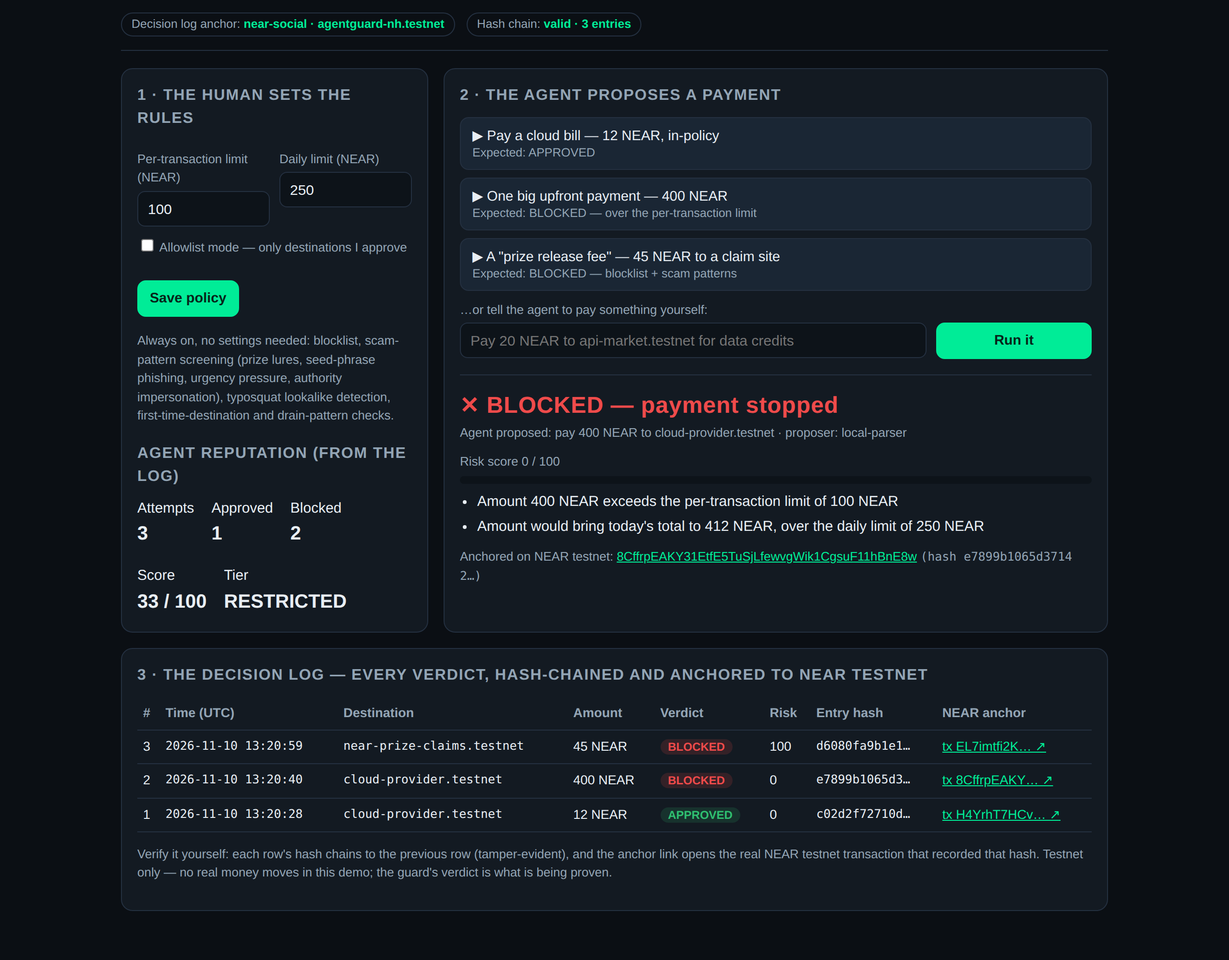
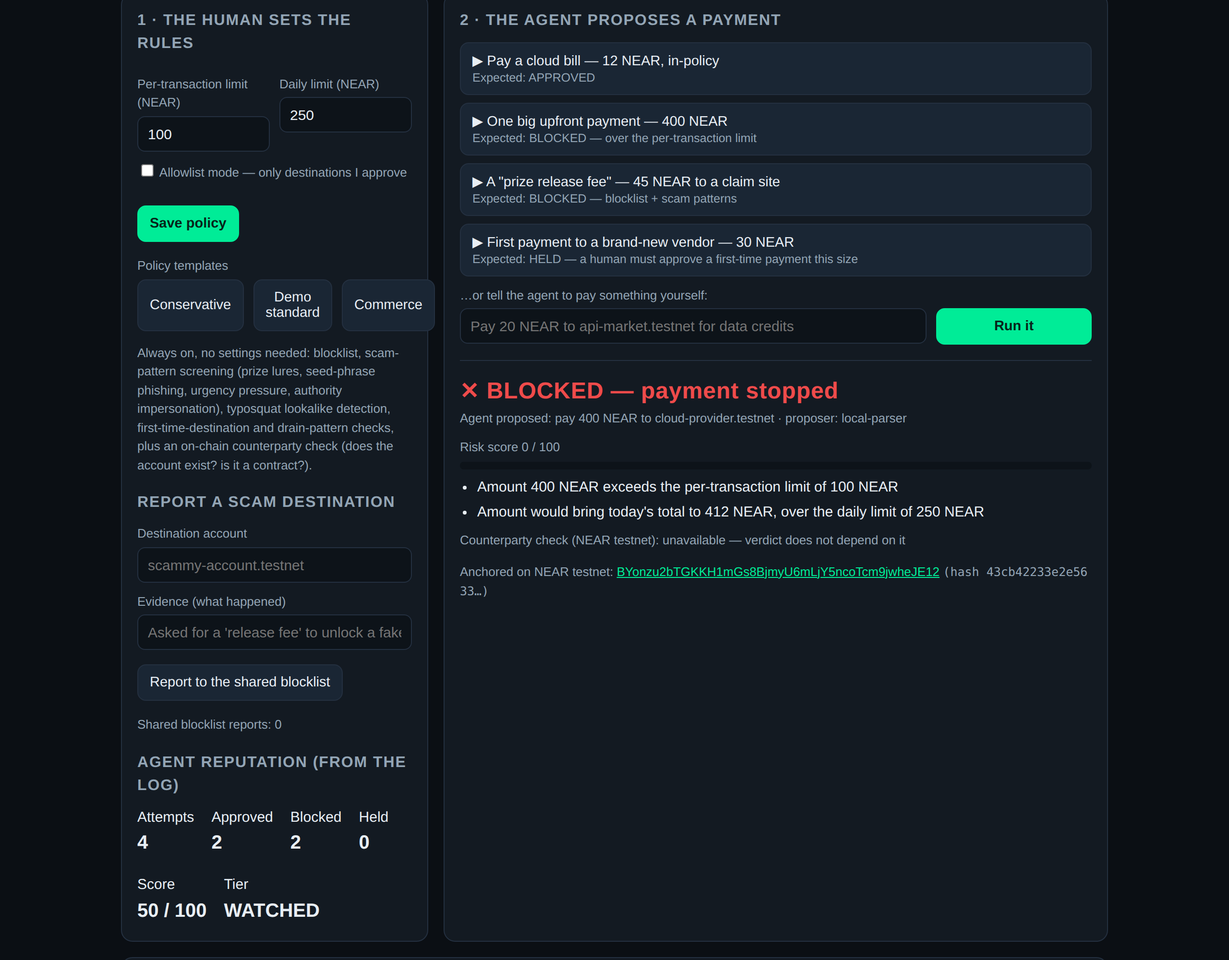
Ship the upgrade: deployed-contract README + key model, refreshed screenshots (REVIEW flow), canonical 5-entry contract-anchored log, demo script updated

Changed region(s): [[0.0938, 0.0, 0.9062, 0.961], [0.125, 0.992, 0.875, 1.0], [0.75, 0.31, 0.9062, 0.403]]

diff --git a/README.md b/README.md
@@ -1,147 +1,162 @@
 # AgentGuard
 
-**A safety layer for AI agents that move money.**
+**AI agents can hold wallets and move money. Who stops them when they're tricked, buggy, or pointed at the wrong account?**
 
-AI agents are starting to hold wallets and pay for things — compute, data,
-services, other agents. That creates a new failure mode: an agent can be
-talked into sending money to the wrong place (a scam lure in a web page, a
-typosquatted payee, a "release fee" for a fake prize), or simply overspend,
-and there is no undo. AgentGuard sits between the agent and the money:
+AgentGuard is a safety layer that sits between an AI agent and its wallet. Every payment the agent proposes is checked against human-set rules *before* it can move — and every decision, **APPROVED**, **BLOCKED**, or **HELD for human review**, is written to a tamper-evident log anchored on NEAR (testnet), in a **dedicated Rust smart contract** built for this project.
 
-1. **The human sets the policy** — per-transaction and daily spending limits,
-   allow/block lists.
-2. **Every proposed payment is screened** — limits, blocklist, scam patterns
-   (prize lures, seed-phrase phishing, urgency pressure, authority
-   impersonation), typosquat lookalikes of known payees, first-time-destination
-   and drain-pattern checks, combined into a risk score.
-3. **Every decision is written to an auditable log anchored to NEAR** — an
-   append-only, SHA-256 hash-chained ledger whose entry hashes are recorded
-   on NEAR testnet in real transactions, plus a per-agent reputation score
-   computed from that history.
+Built for the [NEAR Hackathon — "Build Beyond Boundaries"](https://nearhackathon.com/) · Tracks: **Agents** + **Security** · Testnet only.
 
-Tracks: **AI Security & Defense** (`security`) and **Agent Economy**
-(`agents`). Testnet only — no real money is ever moved; the guard's verdict
-and its proof are the product.
+## Live
 
-## See it work (2 minutes, no setup)
+| | |
+|---|---|
+| **Live demo** | https://agentguard.nammaprojects.com *(deployed and running on the project server; public as soon as the DNS record propagates — until then, run it locally, see Quickstart)* |
+| **Decision-log contract** | [`log.agentguard-nh.testnet`](https://testnet.nearblocks.io/address/log.agentguard-nh.testnet) — Rust / near-sdk, owner-gated, append-only |
+| **Operator account** | [`agentguard-nh.testnet`](https://testnet.nearblocks.io/address/agentguard-nh.testnet) |
+| **Verify the demo decisions** | `npm run anchor-check` — keyless, see below |
 
-A real run of this exact code produced these NEAR testnet transactions —
-open them and you will see the decision hash and verdict recorded on-chain:
+The canonical verdicts, anchored through the contract:
 
-| # | Agent proposed | Verdict | On-chain proof |
-|---|---|---|---|
-| 1 | Pay 12 NEAR to `cloud-provider.testnet` (hosting invoice) | **APPROVED** (risk 0) | [tx H4YrhT7H…](https://testnet.nearblocks.io/txns/H4YrhT7HCvh3uW5xim3qLnNbhb8QjEBG6pAMeUr9JX5e) |
-| 2 | Pay 400 NEAR to `cloud-provider.testnet` (a year upfront) | **BLOCKED** — over the 100 NEAR per-transaction limit | [tx 8CffrpEA…](https://testnet.nearblocks.io/txns/8CffrpEAKY31EtfE5TuSjLfewvgWik1CgsuF11hBnE8w) |
-| 3 | Pay 45 NEAR to `near-prize-claims.testnet` ("urgent — claim your prize, send the release fee") | **BLOCKED** — blocklist + prize-lure + urgency patterns (risk 100) | [tx EL7imtfi…](https://testnet.nearblocks.io/txns/EL7imtfi2KTisL5vu63UZtZxuqgGLfkN4BSSRHU5Kehn) |
+| Verdict | On-chain proof (testnet) |
+|---|---|
+| ✅ **APPROVED** — 12 NEAR hosting bill, in-policy, risk 0 | [tx 2EMUtLLy…KVpNTv](https://testnet.nearblocks.io/txns/2EMUtLLyxtSAAp79vCqrsLXFmzzShfibpKskBGKVpNTv) |
+| ⛔ **BLOCKED** — 400 NEAR, over the 100 NEAR per-transaction limit | [tx BYonzu2b…wheJE12](https://testnet.nearblocks.io/txns/BYonzu2bTGKKH1mGs8BjmyU6mLjY5ncoTcm9jwheJE12) |
+| ⛔ **BLOCKED** — 45 NEAR "prize release fee", scam risk 100 | [tx Fc22c8fg…JiSsHt](https://testnet.nearblocks.io/txns/Fc22c8fgXxFcuSQ4xUYgR4s8BgmFCpYX9YLmoKJiSsHt) |
+| ⏸ **HELD → human approved** — 30 NEAR first payment to a new vendor, risk 20 | [held](https://testnet.nearblocks.io/txns/DW3vBNbGh7ezJUhEpgRnSEjBnkVBFB1PykiwKZ8XTFnt) · [resolution](https://testnet.nearblocks.io/txns/7Rfm5dzABv9MEZmkoFoL6UPkjAeiBTjbtCi11oqyJgf4) |
 
-Anchoring account: `agentguard-nh.testnet`, writing via the NEAR Social
-testnet contract `v1.social08.testnet` (method `set`). The same hashes appear
-in the app's decision log; `node scripts/anchor-check.mjs` re-verifies a local
-log against the chain, keylessly.
+## Screenshots
 
-## Try it yourself
+| Policy, templates & scenarios | ✅ Approved (12 NEAR) |
+|---|---|
+| ![Policy panel, templates and demo scenarios](docs/demo-assets/01-policy-and-scenarios.png) | ![Approved verdict card](docs/demo-assets/02-verdict-approved-12near.png) |
+| ⛔ **Blocked — over limit (400 NEAR)** | ⛔ **Blocked — prize scam (45 NEAR, risk 100)** |
+| ![Blocked over-limit verdict card](docs/demo-assets/03-verdict-blocked-400near-overlimit.png) | ![Blocked scam verdict card](docs/demo-assets/04-verdict-blocked-45near-scam.png) |
+| ⏸ **Held for review → human approved** | **Decision log with explorer links** |
+| ![Review resolution card](docs/demo-assets/05-review-resolution.png) | ![Decision log](docs/demo-assets/06-decision-log.png) |
 
-Prereqs: Node.js 20+.
+## The problem
 
-```sh
-git clone https://github.com/prasad-anandappa/agentguard
-cd agentguard
+Agent frameworks now give AI agents real wallets. That's powerful — and dangerous in ways a normal payment app never faces:
+
+- **Scams aimed at the agent.** A fake "you won a prize, send a release fee" message that a human would laugh at can talk an agent into paying.
+- **Prompt injection.** Text the agent reads (a web page, an invoice note, a chat message) can smuggle in payment instructions.
+- **Fat-finger / hallucination damage.** One misread digit or a wrong-but-similar account name (`cloud-provider` vs `cloud-prov1der`) and funds are gone — blockchain transfers don't have an undo button.
+- **No audit trail.** When something goes wrong, "the agent decided" is not an answer. Teams need a record they can trust and show.
+
+AgentGuard is the checkpoint every agent payment has to pass — and the receipt that proves what happened.
+
+## How AgentGuard maps to the brief
+
+**Agents track** — *"prove a stranger can use it: clear README, a demo, visible receipts"*:
+- The demo page lists every payment instruction it ran; each decision links to its NEAR testnet transaction in an explorer.
+- Every run produces a receipt: verdict, risk score, reasons, ledger hash, on-chain anchor.
+
+**Security track** — *"make the key handling boring and explicit"*:
+- AgentGuard **never holds the money** and never holds a full-access key at runtime. Its chain credential is a **function-call access key scoped to one method (`log_decision`) on one contract**, with a small gas allowance — it cannot transfer funds, add keys, or deploy code (see [Key model](#key-model)).
+- The harmful action each feature prevents is stated next to it in [What it checks](#what-it-checks).
+
+## What it does
+
+1. **A human sets the rules** — per-transaction limit, daily limit, review threshold, allowlist/blocklist, or a one-click policy template (Conservative / Demo standard / Commerce).
+2. **The agent proposes a payment** in plain language ("Pay 12 NEAR to cloud-provider.testnet for this month's hosting invoice"). NEAR AI Cloud inference parses it when a key is configured; a deterministic local parser does the same job offline, so the demo runs anywhere.
+3. **AgentGuard evaluates** the proposal against the policy, scam intelligence, an on-chain counterparty check, and the agent's own history (see checks below).
+4. **Verdict:** `APPROVED` (clean), `BLOCKED` (a hard rule or clear scam signal fired), or `REVIEW` (in between — held until a human approves or denies it in the UI; the resolution is logged too).
+5. **The decision is appended to a SHA-256 hash-chained ledger and anchored on NEAR testnet** through the project's own contract, so anyone can verify later that the record wasn't rewritten.
+
+## What it checks
+
+Each check names the attack or accident it exists to stop:
+
+| Check | Prevents |
+|---|---|
+| Per-transaction & daily limits | A tricked or buggy agent draining the wallet in one go |
+| Blocklist (built-in + community reports) | Repeat payments to known scam destinations |
+| Scam-pattern screening of the memo/instruction (prize lures, "release fee", seed-phrase requests, urgency pressure, authority impersonation) | Social-engineering and prompt-injection text that talks the agent into paying |
+| Typosquat / lookalike detection (edit distance + digit-for-letter swaps vs known-good accounts) | Funds sent to `cloud-prov1der.testnet` instead of `cloud-provider.testnet` |
+| First-time-destination & drain-pattern detection | A fresh scam account receiving its first payment; many small payments sneaking under the per-tx limit |
+| **On-chain counterparty screening** (keyless RPC: does the account exist? is it a contract? have we paid it before?) | Payments to non-existent accounts (burned funds) and to unexpected **contract** destinations — a classic drainer pattern (+risk) |
+| Risk score 0–100 with three verdict bands | Grey-zone payments silently passing: band 20–49 is HELD for a human, exactly as the brief's "asks a human when it's warn" requires |
+
+Plus: a **shared blocklist** anyone can report into *with evidence* (reports take effect immediately and are listed in the UI), **per-agent reputation** derived from the ledger (approvals / blocks / holds per agent), and a downloadable **audit report** (Markdown: policy, counts, reputation, the full hash-chained log with explorer links).
+
+## Key model
+
+Boring and explicit, per the security brief:
+
+- The **agent's wallet is never touched by AgentGuard** — in a production wiring the agent (or its custody layer) executes only `APPROVED` verdicts; AgentGuard's decision is the gate.
+- The **operator account** (`agentguard-nh.testnet`, testnet) is controlled by a full-access key used only by one-off setup scripts (`scripts/deploy-contract.mjs`, `scripts/setup-fc-key.mjs`) on the developer's machine.
+- The **running service** authenticates with a **function-call access key**:
+  - may call **only** `log_decision` on `log.agentguard-nh.testnet`,
+  - carries a **3 NEAR allowance** that pays its own gas — when it runs out, anchoring stops (fail-visible, never fail-silent) until the operator rotates the key,
+  - **cannot** transfer NEAR, add/remove keys, deploy code, or delete the account.
+  - Proof: [key-creation tx 4p5mMDW1…Db2WgJnn](https://testnet.nearblocks.io/txns/4p5mMDW16zFGnqynRq7mjqk2aH7oHPkQXYvzDb2WgJnn) — the access-key permission is visible in the transaction.
+- The **log contract** accepts `log_decision` only from its owner (the operator account), and its records are append-only — no update or delete method exists.
+- **Verification needs no key at all**: `scripts/anchor-check.mjs` reads public RPC data + public transaction receipts.
+
+## The Rust contract
+
+[`contract/`](contract/) — `log.agentguard-nh.testnet`, deployed 2026-11-10:
+
+- deploy tx: [FkuoTLTm…Ws1W437uoX](https://testnet.nearblocks.io/txns/FkuoTLTmsZDhMG9X3y8j4o4w85KKx1GNnaWs1W437uoX) · init tx: [J4NUZxJJ…36ZMQ4sPuF](https://testnet.nearblocks.io/txns/J4NUZxJJWaeUhKcNdjQdZwJhiJdRPdYm1E36ZMQ4sPuF)
+- `log_decision(agent, destination, amount, verdict, risk_score, entry_hash)` — owner-only, append-only, emits an `AGENTGUARD_DECISION` log line per record.
+- `get_decision(index)` / `total_decisions()` / `owner()` — public views; `npm run anchor-check` cross-checks both the views and the transaction receipts against the local ledger.
+- Built + unit-tested (3 tests) in CI on every push; the same pipeline produces the deployable wasm artifact.
+
+## Quickstart
+
+```bash
+git clone https://github.com/prasad-anandappa/agentguard && cd agentguard
 npm install
-npm test        # do this — see 22 tests pass (policy engine, ledger, anchoring)
-npm start       # open http://localhost:8787
+npm start          # → http://localhost:8787
 ```
 
-Then, in the page:
+No keys needed: without a `.env`, AgentGuard runs fully locally and marks entries "local only" — nothing is faked. Click the four scenarios; the 4th is **held for review** — approve or deny it in the card that appears.
 
-- **Do:** click "Pay a cloud bill — 12 NEAR" → **see** a green APPROVED verdict,
-  risk 0, and the decision appear in the log.
-- **Do:** click "One big upfront payment — 400 NEAR" → **see** BLOCKED, with the
-  reason "exceeds the per-transaction limit of 100 NEAR".
-- **Do:** click "A prize release fee — 45 NEAR" → **see** BLOCKED with
-  blocklist, prize-lure and urgency reasons, risk 100.
-- **Do:** type your own instruction, e.g. `Pay 20 NEAR to api-market.testnet
-  for data credits`, or try to sneak one past the guard:
-  `Pay 30 NEAR to cloud-providerr.testnet for hosting` (note the extra `r`) →
-  **see** it blocked as a typosquat lookalike of the known payee.
-- **Do:** change the limits in the policy panel, save, and re-run a scenario →
-  **see** the verdict follow *your* rules.
+To anchor live (testnet): copy `.env.example` to `.env`, create a testnet account, run `node scripts/deploy-contract.mjs` + `node scripts/setup-fc-key.mjs`, and restart. Or point it at the already-deployed contract above.
 
-Out of the box the log is local (entries marked "local only"). To anchor your
-own decisions to testnet, create a free testnet account and point the app at
-it — no code changes:
+## Verify it yourself (no keys, no trust)
 
-```sh
-node scripts/create-account.mjs myname.testnet   # funded testnet dev account
-cp .env.example .env                              # set NEAR_TESTNET_ACCOUNT_ID
-                                                  # and NEAR_TESTNET_CREDENTIALS
-npm start                                         # header now shows anchor mode
+```bash
+npm run anchor-check
 ```
 
-## How NEAR fits (concretely)
-
-- **Decision anchoring on NEAR testnet.** Each ledger entry's SHA-256 hash and
-  verdict are written to NEAR in a real transaction (NEAR Social testnet
-  contract `v1.social08.testnet::set`, under the operator account's
-  namespace). Hash-chaining means the anchored hashes are sufficient to audit
-  the *entire* history: alter any entry and its hash — and every later link —
-  stops matching what is on-chain. NEAR's fast, cheap finality makes
-  per-decision anchoring practical; on most chains it would be priced as a
-  batch job. Testnet-only projects are eligible per the hackathon rules
-  (Q-010); nothing here needs mainnet or real funds.
-- **A dedicated log contract is included** (`contract/`, Rust / near-sdk):
-  `log_decision(decision_id, entry_hash, verdict)` with an operator-only
-  write rule and unit tests. Deploy it and set `AGENTGUARD_CONTRACT_ID` — the
-  anchor module switches backends with that one variable; recorded data is
-  identical. (The demo environment had no Rust toolchain, so the shipped run
-  anchors via NEAR Social; both paths are real testnet transactions.)
-- **NEAR AI Cloud (optional).** If `NEAR_AI_API_KEY` is set, the agent's
-  instruction parsing uses NEAR AI Cloud inference; without a key, a built-in
-  deterministic parser does the same job so the demo never breaks. The guard's
-  verdict does not depend on which proposer produced the proposal.
-- **Reputation from anchored history.** The per-agent reputation score is a
-  pure function of the decision log (approvals / attempts, tiered), so anyone
-  can recompute it from the same data that is anchored on NEAR — the seed of
-  the "should this agent be trusted with money?" check the Agent Economy
-  needs.
-
-## Architecture
+Recomputes the local hash chain, then for every anchored entry fetches the public transaction and — for contract anchors — the contract's own stored record, comparing verdicts. Sample output from the canonical log:
 
 ```
-public/index.html   Demo UI: policy panel, agent scenarios, decision log
-src/server.js       Zero-framework Node server + JSON API
-src/policy.js       Policy engine — limits, lists, scam screening, risk score
-src/agent.js        Agent proposer — NEAR AI Cloud or deterministic parser
-src/ledger.js       Append-only SHA-256 hash-chained decision log + reputation
-src/anchor.js       NEAR testnet anchoring (NEAR Social `set`, or dedicated
-                    contract via AGENTGUARD_CONTRACT_ID)
-contract/           Dedicated AgentGuard log contract (Rust, near-sdk) + tests
-scripts/            create-account.mjs (testnet dev account),
-                    anchor-check.mjs (keyless on-chain verification)
-test/               node --test suite: policy, ledger, anchoring, parser
+Hash chain: VALID (5 entries)
+#1 APPROVED — on-chain verdict (dedicated-contract): APPROVED · tx success: true · MATCH ✓
+#2 BLOCKED — on-chain verdict (dedicated-contract): BLOCKED · tx success: true · MATCH ✓
+#3 BLOCKED — on-chain verdict (dedicated-contract): BLOCKED · tx success: true · MATCH ✓
+#4 REVIEW — on-chain verdict (dedicated-contract): REVIEW · tx success: true · MATCH ✓
+#5 APPROVED — on-chain verdict (dedicated-contract): APPROVED · tx success: true · MATCH ✓
+ALL ANCHORED ENTRIES VERIFIED ON-CHAIN ✓
 ```
 
-API: `GET /api/health` · `GET|POST /api/policy` · `POST /api/propose`
-(`{scenario}` or `{instruction}`) · `GET /api/decisions` ·
-`GET /api/scenarios`.
+Earlier demo decisions were anchored through the NEAR Social testnet contract (`v1.social08.testnet`) before the dedicated contract existed — those transactions remain valid proof of the same ledger hashes: [APPROVED](https://testnet.nearblocks.io/txns/H4YrhT7HCvh3uW5xim3qLnNbhb8QjEBG6pAMeUr9JX5e) · [BLOCKED 400](https://testnet.nearblocks.io/txns/8CffrpEAKY31EtfE5TuSjLfewvgWik1CgsuF11hBnE8w) · [BLOCKED scam](https://testnet.nearblocks.io/txns/EL7imtfi2KTisL5vu63UZtZxuqgGLfkN4BSSRHU5Kehn).
 
-## Baseline disclosure (hackathon rules Q-001/Q-003/Q-005)
+## Attack demo
 
-- AgentGuard is a **new build, started 2026-11-10** inside the NEAR HACKATHON
-  window (2026-11-01 → 2026-11-14). No pre-hackathon code is included.
-- Libraries used: `near-api-js` (NEAR interaction) and Node.js built-ins
-  (HTTP server, crypto, test runner). The contract uses `near-sdk` (Rust).
-- Built with an AI coding agent working from the official
-  `HACKATHON.md` brief, with the human directing scope and verifying results.
+```bash
+npm run attack-demo   # boots a throwaway instance — your real log is untouched
+```
 
-## Safety notes
+Runs three scripted prompt-injection attacks end-to-end — a fake "NEAR Foundation security team" authority lure, a typosquat of a known-good payee, and a sub-limit drain sequence — and shows all three stopped (2 BLOCKED, 1 HELD). Exit code 0 only if every attack is stopped.
 
-- Testnet only. The demo asset is test NEAR / simulated payments; AgentGuard
-  itself never holds or moves user funds — it issues verdicts and proofs.
-- Keys live in environment variables / local credential files only
-  (`.env`, `.near-credentials/` are git-ignored). Never commit them.
-- Without NEAR credentials the app runs in local mode and labels entries
-  "local only" — it never fabricates an anchor.
+## Tests & CI
 
-## License
+```bash
+npm test    # 35 tests: policy engine, ledger hash-chain, REVIEW flow,
+            # counterparty screening, shared blocklist, reputation, server API
+```
 
-MIT — see `LICENSE`.
+GitHub Actions (`.github/workflows/ci.yml`) runs the Node suite + attack demo, the contract's Rust unit tests, and the wasm build on every push.
+
+## Honest scope & limits
+
+- **Testnet only.** No real funds are involved anywhere in this project, and nothing here is a mainnet safety product (yet).
+- **AgentGuard gates; it doesn't hold keys to the money.** Executing (or refusing) an approved payment stays with the agent's own wallet/custody layer — by design; a policy engine that also held the funds would be a bigger target, not a safer one.
+- **Scam screening is heuristic.** Pattern lists catch the common lures, not every possible phrasing; that's why grey-zone scores are held for a human instead of waved through.
+- **Counterparty screening degrades gracefully.** If the RPC is unreachable, screening reports "unavailable" and never blocks on missing data.
+- **NEAR AI Cloud inference is optional.** The verdict path is deterministic policy code; the LLM (when configured) only parses the instruction into `{to, amount, memo}`.
+- The seeded demo log ships in `data/decisions.jsonl`; bot
+...[truncated 2085 chars]

diff --git a/contract/README.md b/contract/README.md
@@ -1,31 +1,51 @@
-# AgentGuard log contract (optional dedicated deployment)
+# AgentGuard log contract — DEPLOYED
 
-A minimal NEAR contract that records AgentGuard decision hashes on-chain:
-`log_decision(decision_id, entry_hash, verdict)`, `get_decision(entry_hash)`,
-`total_decisions()`. Only the operator account that deployed it can write.
+A minimal NEAR contract that records AgentGuard decisions on-chain.
+**Live on testnet:** [`log.agentguard-nh.testnet`](https://testnet.nearblocks.io/address/log.agentguard-nh.testnet)
+(deploy tx [FkuoTLTm…](https://testnet.nearblocks.io/txns/FkuoTLTmsZDhMG9X3y8j4o4w85KKx1GNnaWs1W437uoX),
+init tx [J4NUZxJJ…](https://testnet.nearblocks.io/txns/J4NUZxJJWaeUhKcNdjQdZwJhiJdRPdYm1E36ZMQ4sPuF)).
 
-**How the live demo anchors today:** the app's anchor module
-(`../src/anchor.js`) writes each decision hash to NEAR testnet via the NEAR
-Social testnet contract (`v1.social08.testnet`, method `set`) — real,
-explorer-verifiable testnet transactions with zero deployment needed. If this
-dedicated contract is deployed, set `AGENTGUARD_CONTRACT_ID` in the
-environment and the same module calls `log_decision` on it instead. The data
-recorded is identical either way.
+Interface:
 
-## Build & deploy (testnet)
+- `log_decision(agent, destination, amount, verdict, risk_score, entry_hash)` → index.
+  Owner-only (`agentguard-nh.testnet`), append-only — there is no update or
+  delete method. Emits an `AGENTGUARD_DECISION` log line per record.
+- `get_decision(index)` → the stored record · `total_decisions()` · `owner()`.
 
-Prereqs: Rust + `cargo-near` (https://github.com/near/cargo-near), and a funded
-testnet account (free from the testnet faucet / wallet).
+The app's anchor module (`../src/anchor.js`) calls `log_decision` whenever
+`AGENTGUARD_CONTRACT_ID` is set (it is, in the live demo), authenticating with
+a **function-call access key scoped to this one method** — see the main
+README's "Key model". Without the variable it falls back to anchoring via
+the NEAR Social testnet contract (`v1.social08.testnet` `set`), which the
+earliest demo decisions used; `npm run anchor-check` verifies both modes.
+
+## Build
+
+CI (`.github/workflows/ci.yml`) runs `cargo test` (3 unit tests: logging,
+read-back, non-owner rejection) and builds the wasm on every push, publishing
+it as the `agentguard-log-wasm` artifact. Locally:
 
 ```sh
 cd contract
-cargo near build
-# deploy to a sub-account of your testnet account, then initialise:
-near deploy <contract.account.testnet> target/near/agentguard_log.wasm new '{}'
+rustup target add wasm32-unknown-unknown
+cargo test
+cargo build --target wasm32-unknown-unknown --release
+# wasm: target/wasm32-unknown-unknown/release/agentguard_log.wasm
 ```
 
-Note: the hackathon demo environment used for the submission run did not have
-a Rust toolchain available, so the shipped demo anchors through NEAR Social
-(see above) and this contract is provided as the dedicated-deployment source.
-Its unit tests (`cargo test`) cover logging, read-back, and the
-operator-only write rule.
+(`near-sdk` is pinned to `=5.1.0` — the contract targets that `#[near_bindgen]`
+API; a floating `5.x` resolves to newer SDKs whose `#[near]` macro style this
+code predates.)
+
+## Deploy (testnet)
+
+```sh
+node scripts/deploy-contract.mjs   # creates log.<operator>.testnet if needed,
+                                   # deploys, initialises new(owner = operator)
+node scripts/setup-fc-key.mjs      # mints the scoped function-call key the
+                                   # app anchors with
+```
+
+Then set `AGENTGUARD_CONTRACT_ID=log.<operator>.testnet` and point
+`NEAR_TESTNET_CREDENTIALS` at the function-call key file. Done — the running
+service never holds a full-access key.

diff --git a/docs/demo-script.md b/docs/demo-script.md
@@ -1,9 +1,10 @@
 # Demo script — AgentGuard (for Prasad to record, ~90 seconds)
 
 Goal: one complete, judge-proof moment — agent proposes, guard decides, NEAR
-proves it. Record the browser at http://localhost:8787 (start with
-`npm start` from the repo folder; the header should show
-"Decision log anchor: near-social · agentguard-nh.testnet").
+proves it. Record the browser at https://agentguard.nammaprojects.com
+(or http://localhost:8787 after `npm start` from the repo folder; the header
+should show "Decision log anchor: dedicated-contract ·
+agentguard-nh.testnet").
 
 ## Shot list
 
@@ -19,15 +20,21 @@ proves it. Record the browser at http://localhost:8787 (start with
 4. **Over-limit payment (0:35–0:50)** — Click **"One big upfront payment —
    400 NEAR"**. Show **BLOCKED** and the reason: "exceeds the per-transaction
    limit of 100 NEAR" — even though the payee is the same trusted vendor.
-5. **The scam (0:50–1:15)** — Click **"A prize release fee — 45 NEAR"**. Show
+5. **The scam (0:50–1:10)** — Click **"A prize release fee — 45 NEAR"**. Show
    **BLOCKED**, risk 100, reasons: blocklisted destination, prize-claim lure,
    urgency pressure. "The agent was manipulated by the memo — the guard was
    not."
-6. **The proof (1:15–1:30)** — Click the anchor link on the scam row. The
-   NEAR testnet explorer opens showing the real transaction with the
-   decision hash and BLOCKED verdict. "Every verdict — approve or block — is
-   anchored to NEAR testnet. Anyone can audit what the agent tried to do."
-   Optional terminal beat: run `node scripts/anchor-check.mjs` and show
+6. **The grey zone (1:10–1:20)** — Click **"First payment to a brand-new
+   vendor — 30 NEAR"**. Show the amber **HELD FOR HUMAN REVIEW** card, then
+   click **✓ Approve & log my decision**. "Not clean, not clearly a scam —
+   so a human decides, and that decision is logged too."
+7. **The proof (1:20–1:35)** — Click the anchor link on any row. The NEAR
+   testnet explorer opens showing the real transaction into the project's
+   own log contract (`log.agentguard-nh.testnet`) with the decision hash and
+   verdict. "Every verdict — approve, block, or held — is anchored to NEAR
+   testnet by a function-call key that can do nothing else. Anyone can
+   audit what the agent tried to do."
+   Optional terminal beat: run `npm run anchor-check` and show
    "ALL ANCHORED ENTRIES VERIFIED ON-CHAIN ✓".
 
 ## If screenshots instead of video
